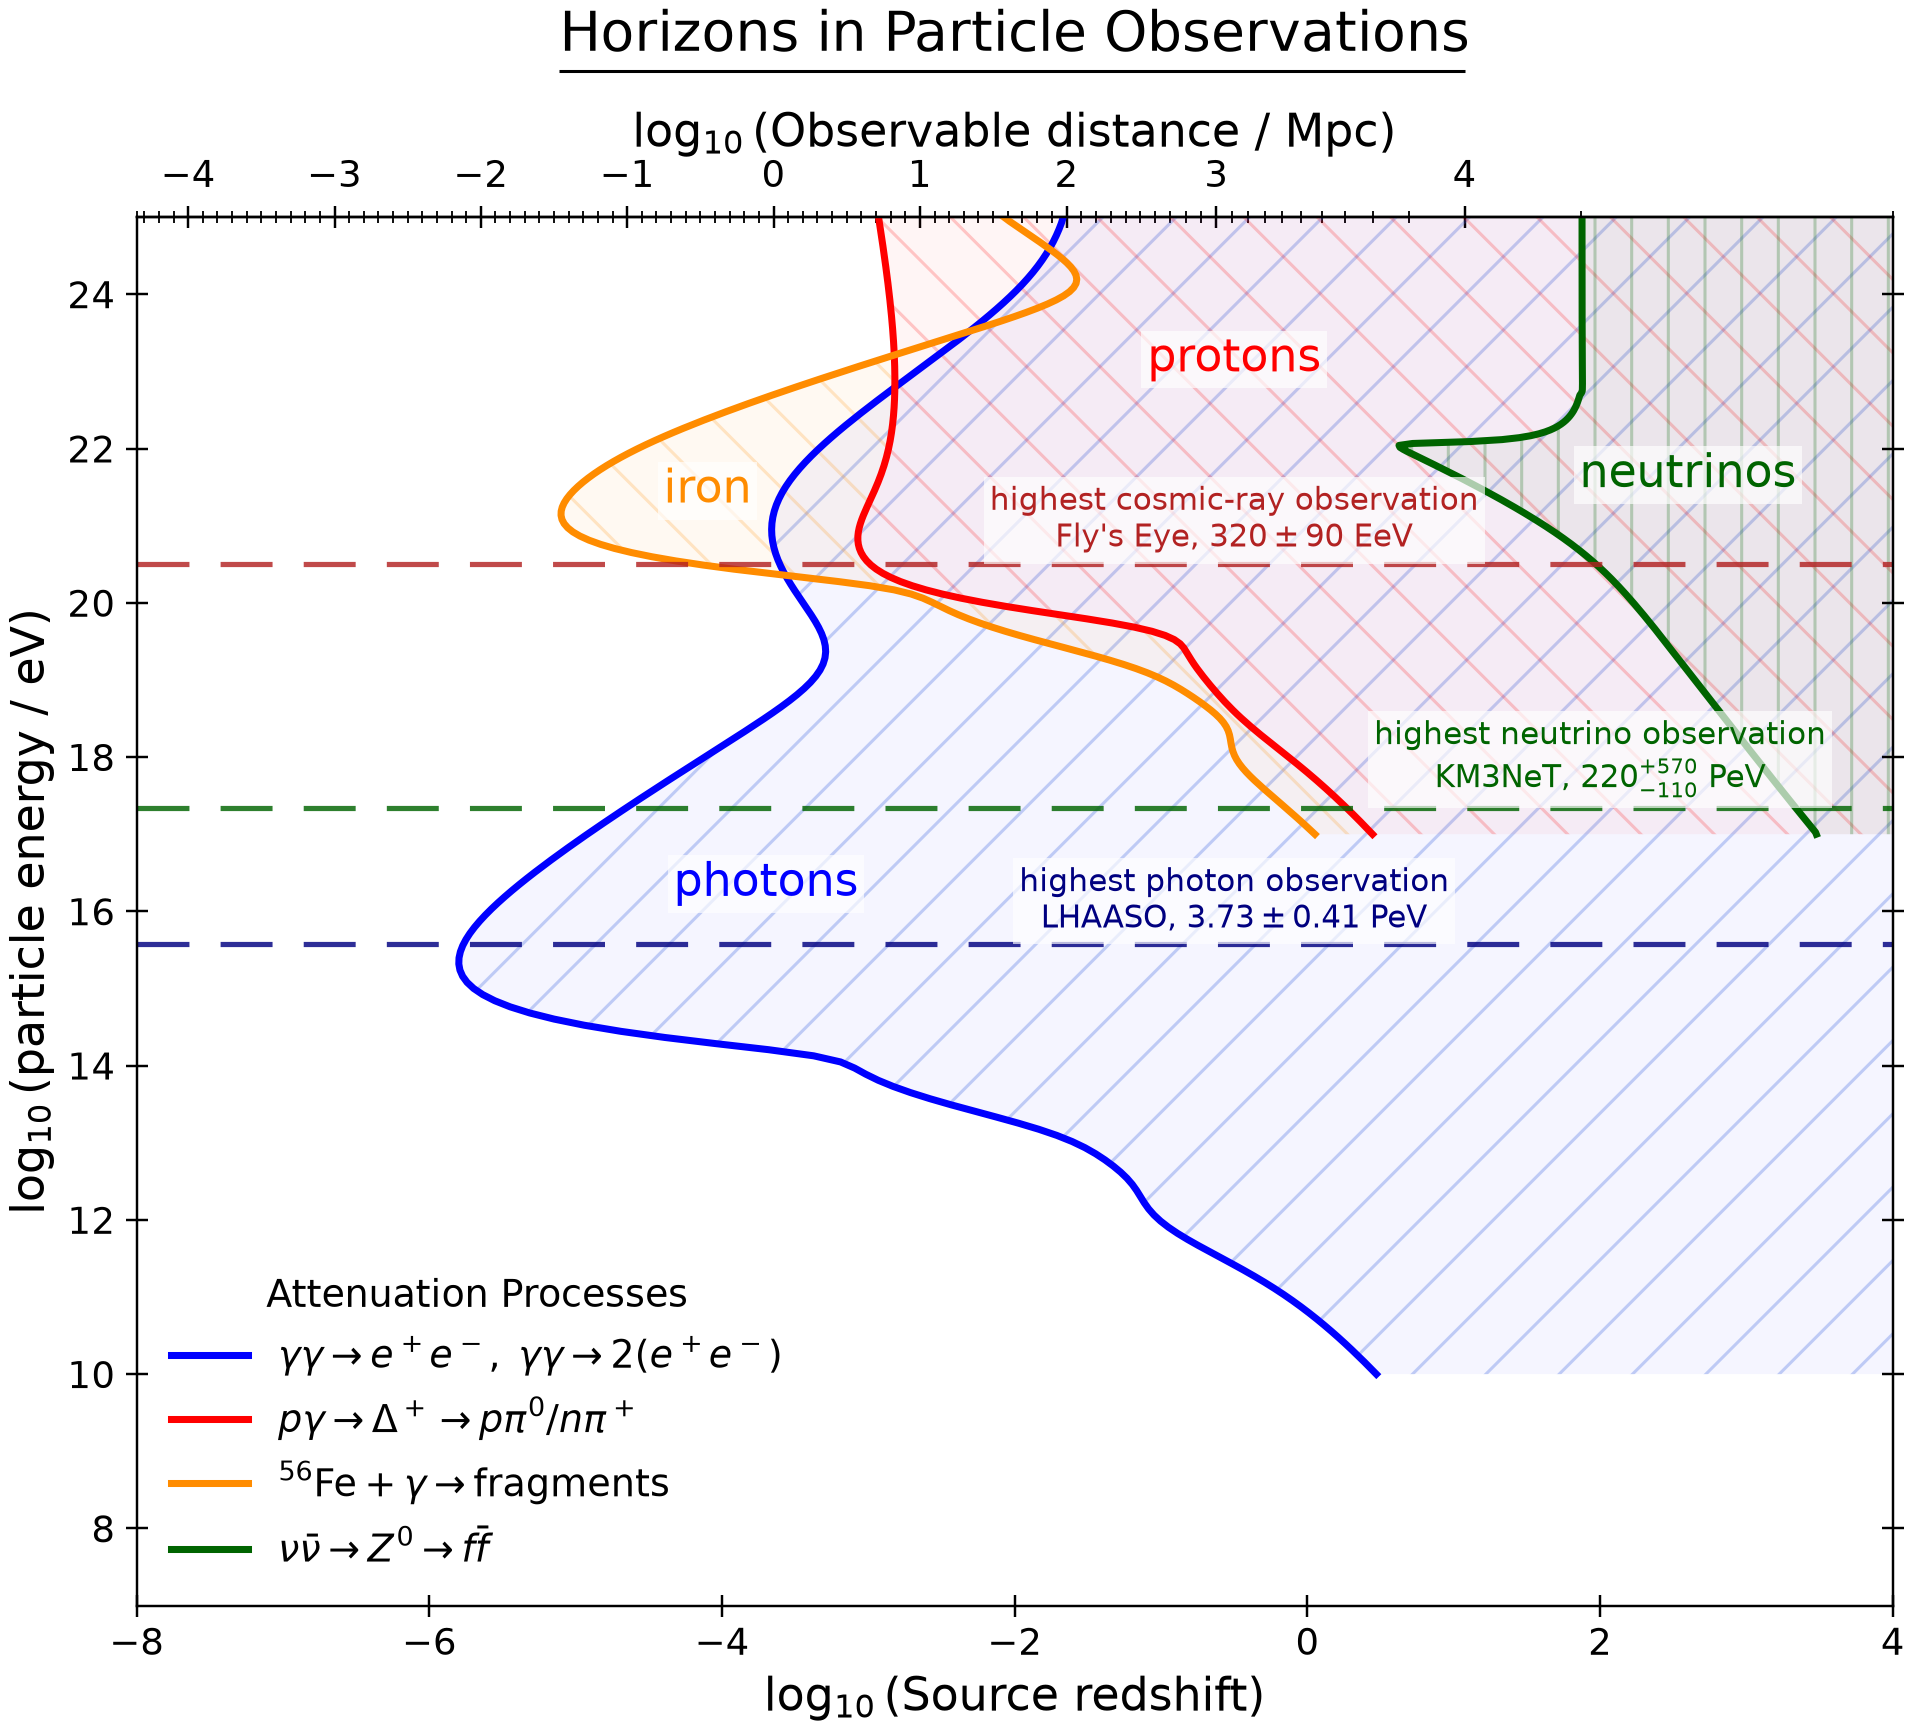
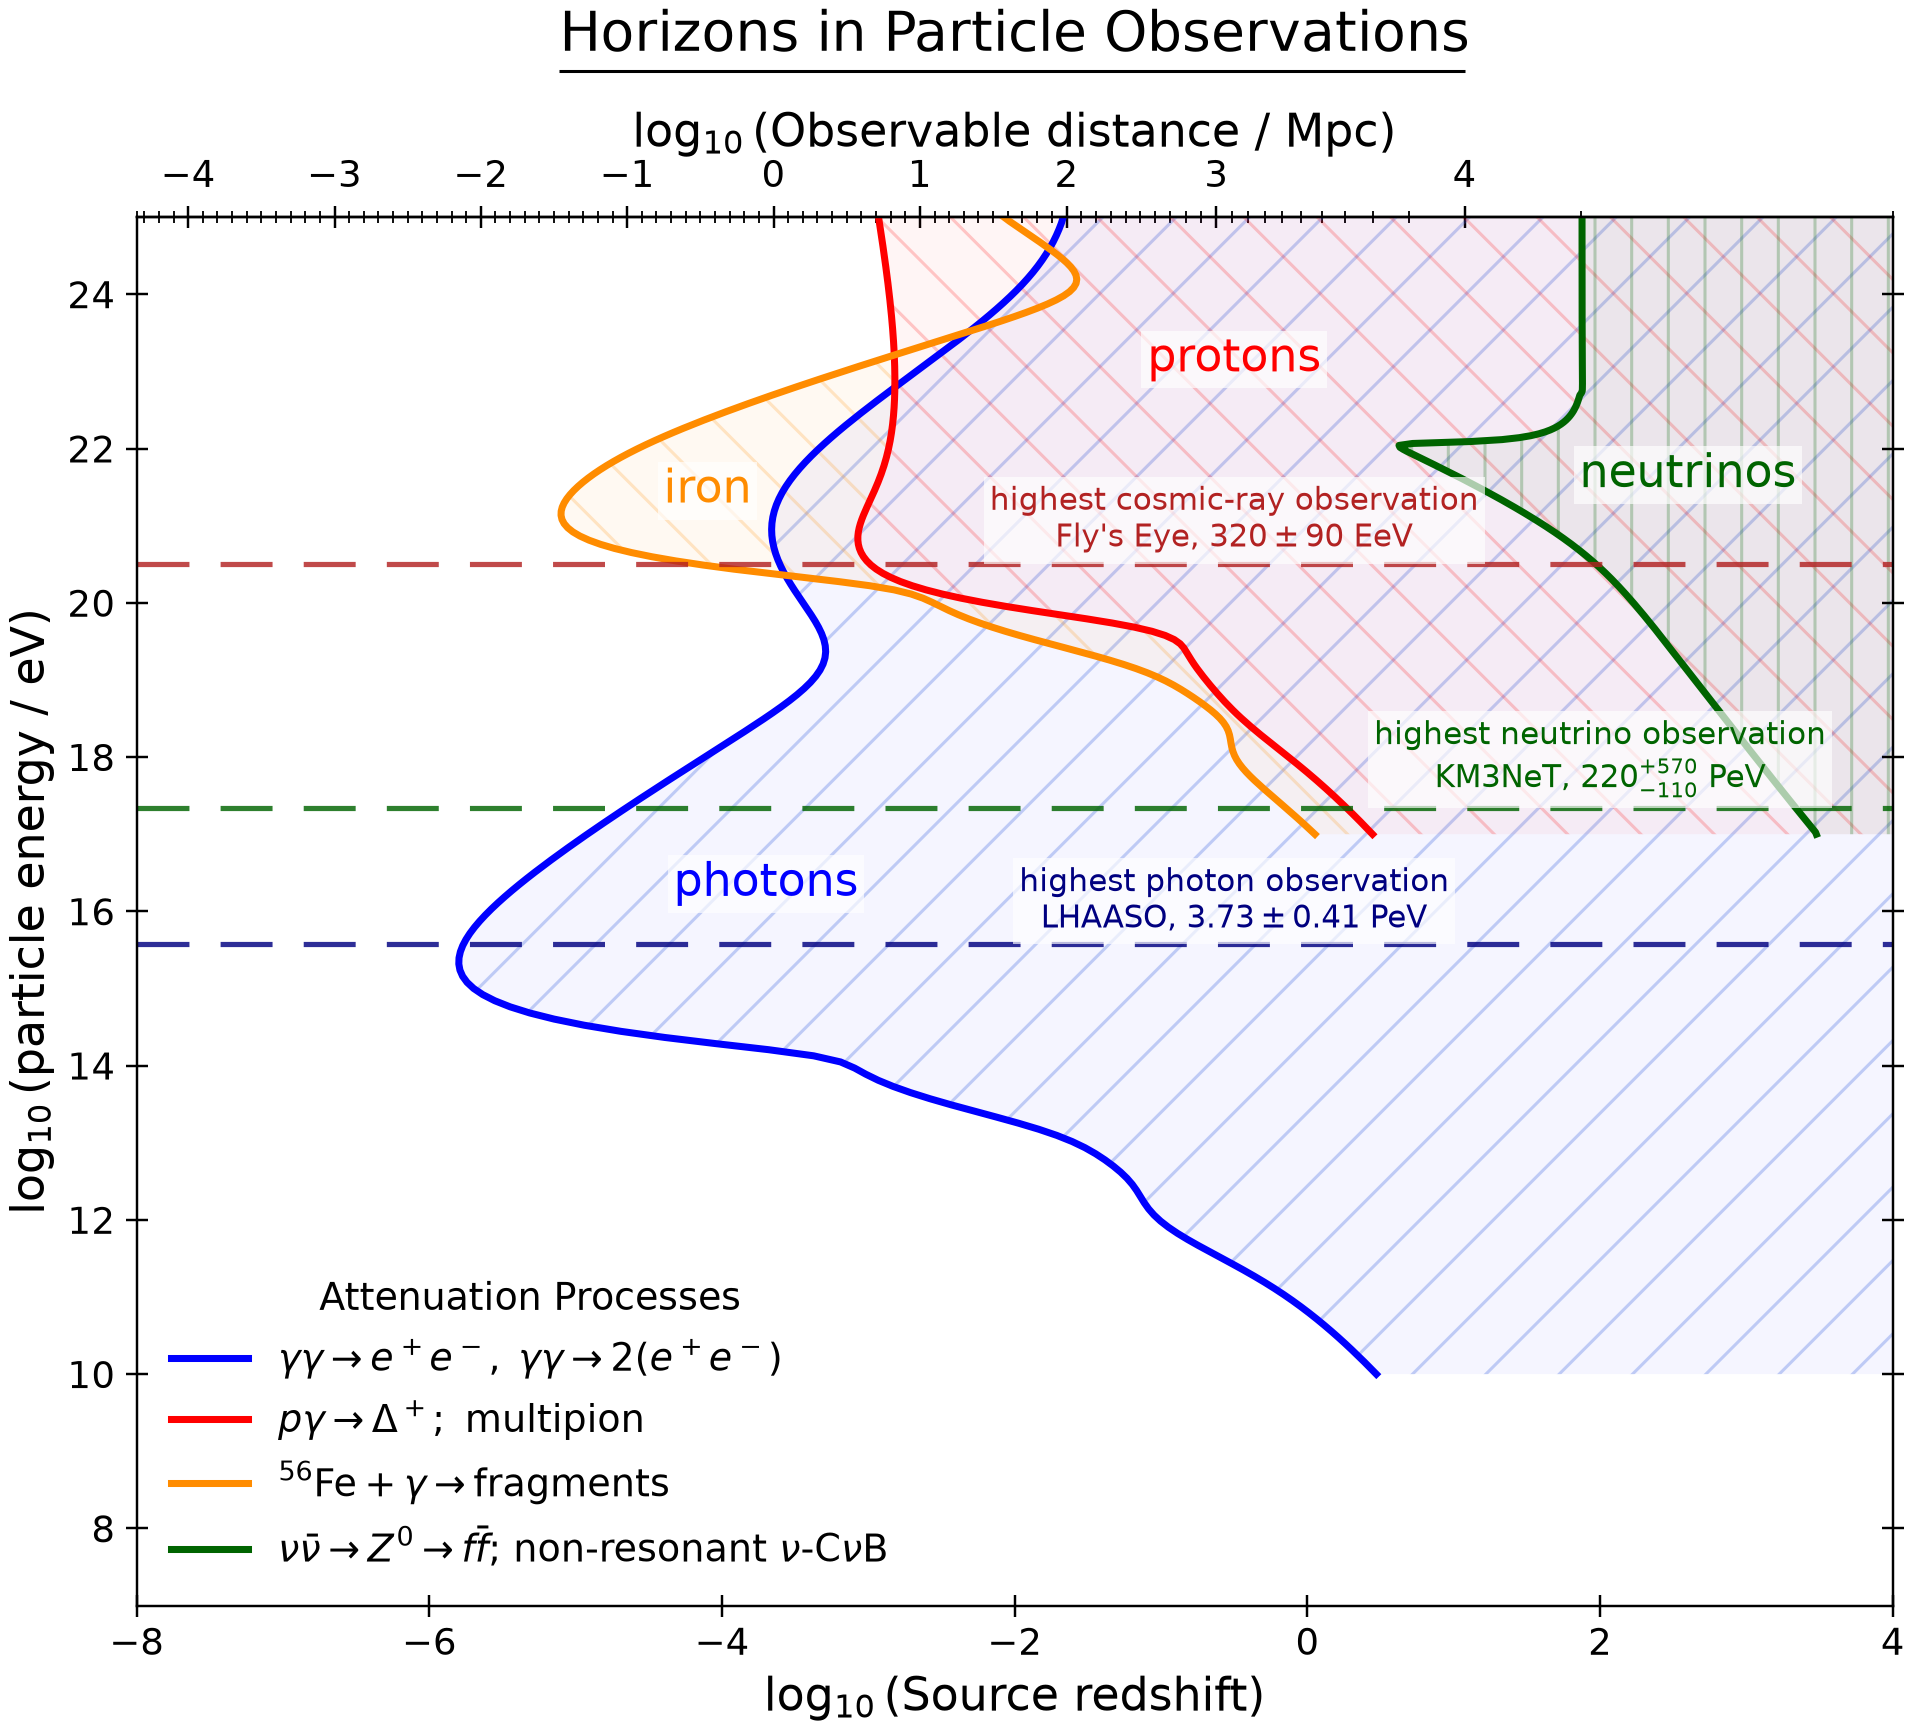
Clarify processes in legend

Changed region(s): [[0.1542, 0.7175, 0.4009, 0.8423], [0.2776, 0.8735, 0.4626, 0.9047], [0.0925, 0.7799, 0.1234, 0.8111]]

diff --git a/scripts/plot.py b/scripts/plot.py
@@ -391,7 +391,7 @@ def plot_mpc(
             proton_y,
             color="red",
             linewidth=2.4,
-            label=r"$p\gamma \rightarrow \Delta^+ \rightarrow p\pi^0 / n\pi^+$",
+            label=r"$p\gamma \rightarrow \Delta^+;\ \mathrm{multipion}$",
         )
     if show_iron:
         ax.plot(
@@ -608,7 +608,7 @@ def plot_redshift(
             proton_y,
             color="red",
             linewidth=2.3,
-            label=r"$p\gamma \rightarrow \Delta^+ \rightarrow p\pi^0 / n\pi^+$",
+            label=r"$p\gamma \rightarrow \Delta^+;\ \mathrm{multipion}$",
         )
     if show_iron:
         ax.plot(
@@ -625,7 +625,7 @@ def plot_redshift(
             neutrino_y,
             color=NEUTRINO_COLOR,
             linewidth=2.3,
-            label=r"$\nu\bar{\nu} \rightarrow Z^0 \rightarrow f\bar{f}$",
+            label=r"$\nu\bar{\nu} \rightarrow Z^0 \rightarrow f\bar{f}$; non-resonant $\nu$-C$\nu$B",
         )
 
     record_lines = []
@@ -686,15 +686,19 @@ def plot_redshift(
         right=True,
         length=MINOR_TICK_LENGTH,
     )
-    ax.legend(
-        loc="lower left",
-        fontsize=LEGEND_SIZE,
-        title=LEGEND_TITLE,
-        title_fontsize=LEGEND_SIZE,
-        framealpha=0.82,
-        facecolor="white",
-        edgecolor="none",
-    )
+    handles, labels = ax.get_legend_handles_labels()
+    if handles:
+        ax.legend(
+            handles,
+            labels,
+            loc="lower left",
+            fontsize=LEGEND_SIZE,
+            title=LEGEND_TITLE,
+            title_fontsize=LEGEND_SIZE,
+            framealpha=0.82,
+            facecolor="white",
+            edgecolor="none",
+        )
     fig.savefig(output_path, dpi=220)
     plt.close(fig)
 
